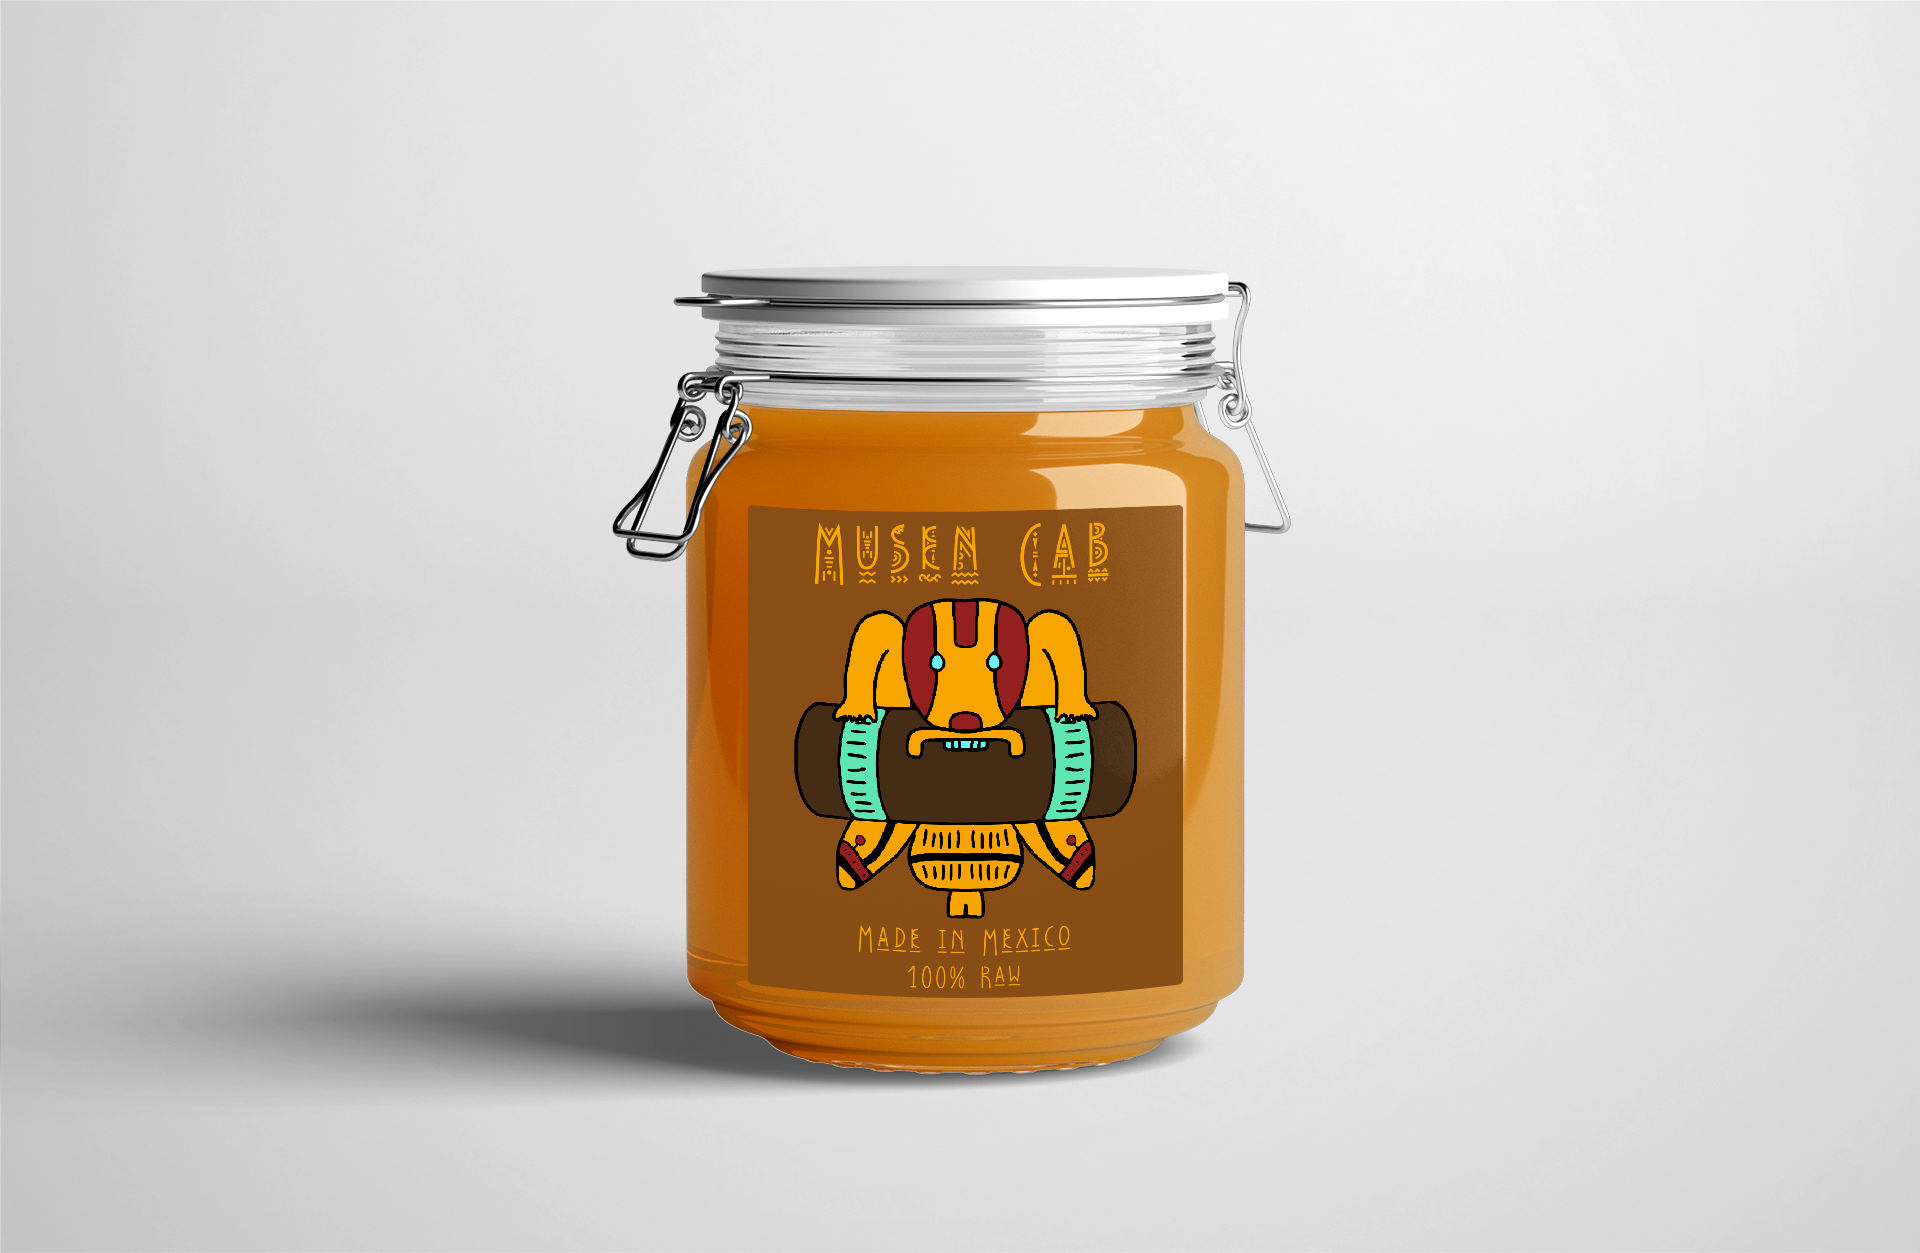
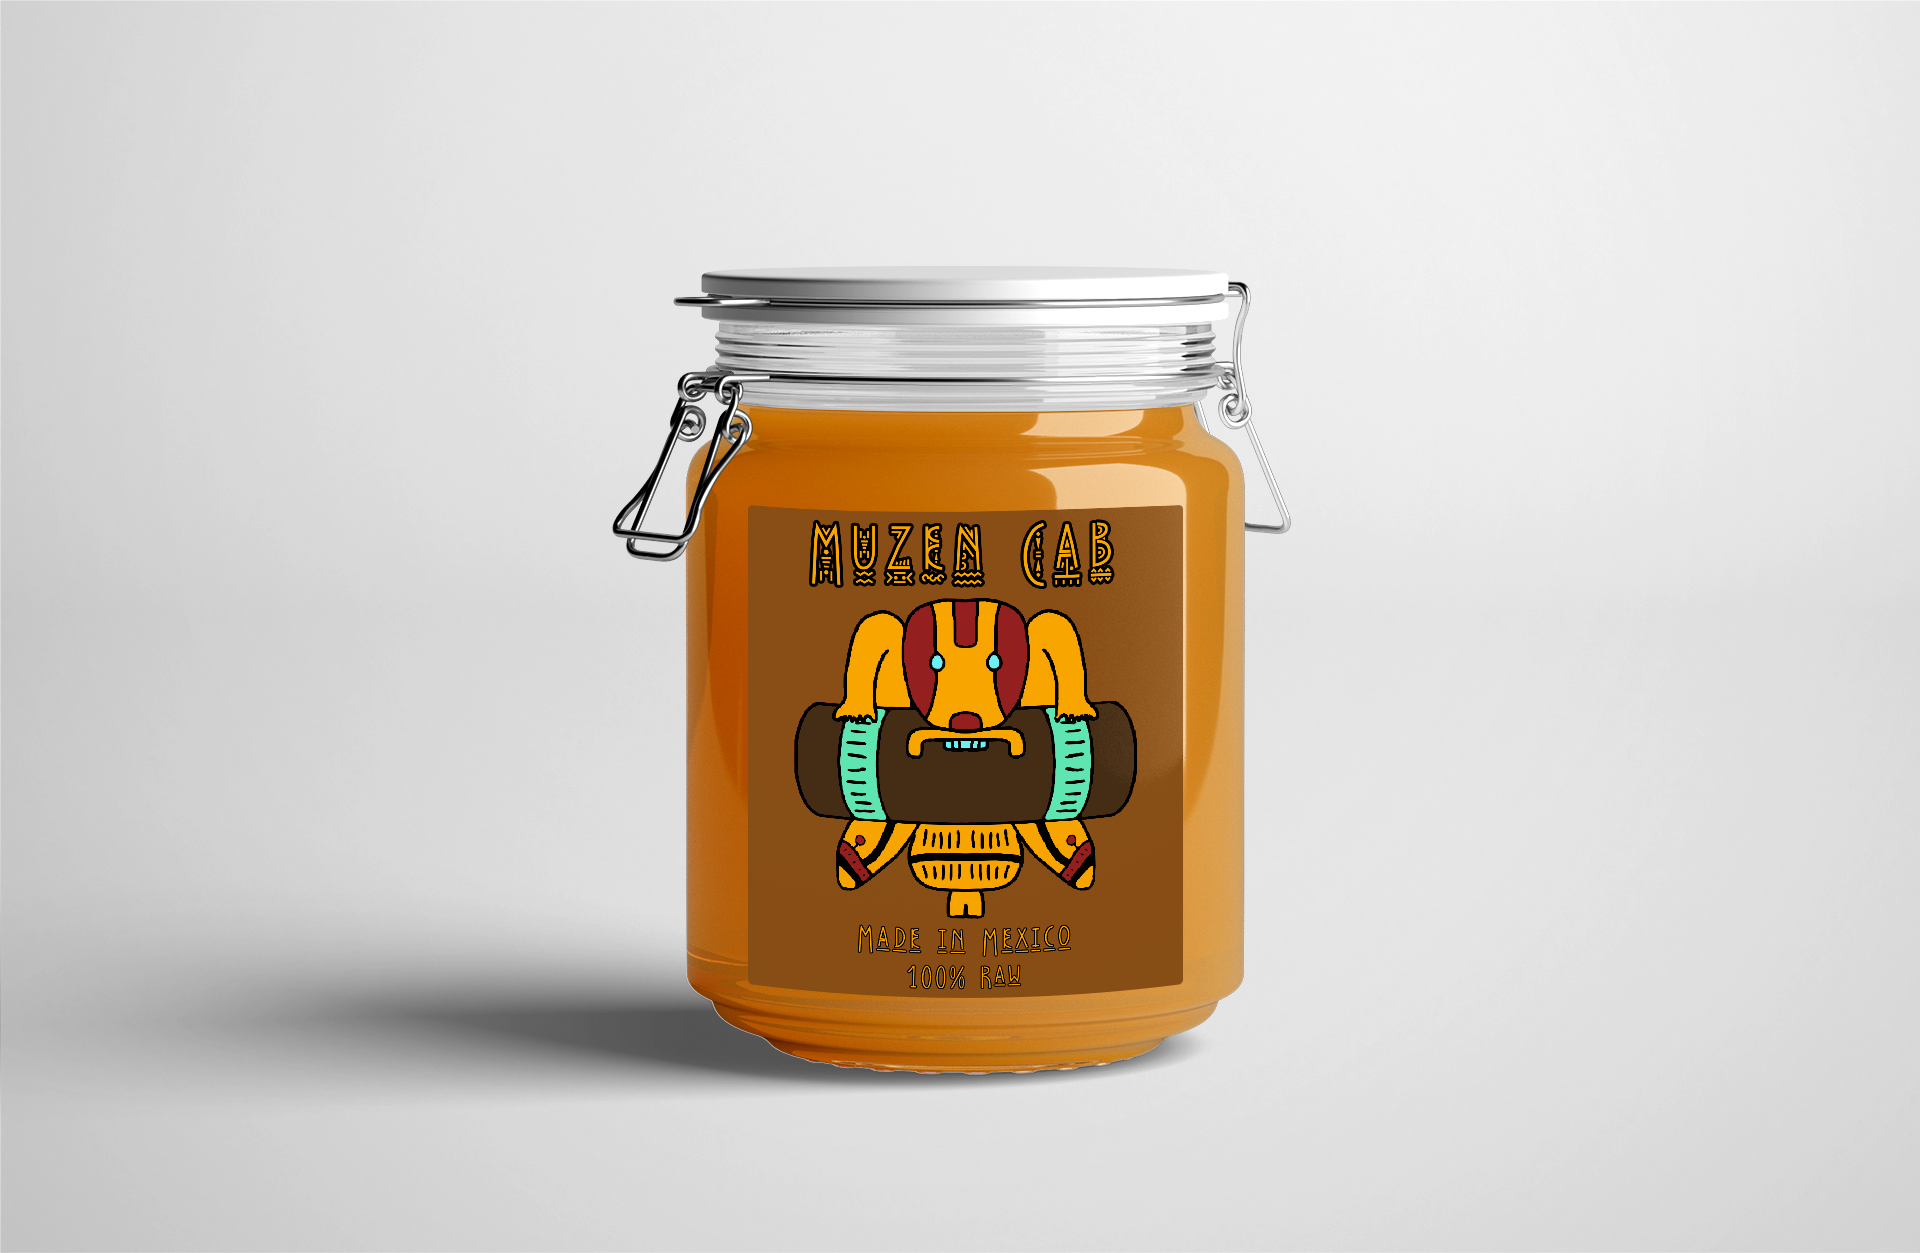
Musen to Muzen

Changed region(s): [[0.4062, 0.4046, 0.5938, 0.4669], [0.4375, 0.747, 0.5625, 0.8093]]

diff --git a/graphicdesign/index.html b/graphicdesign/index.html
@@ -128,7 +128,7 @@
 
 	<div class="talldisplay nodescription parchment1">
 		<h2>
-		Mucen Cab Honey
+		Muzen Cab Honey
 		</h2>
 		<div class="imageside">
 			<img src="MusenCabJar.png">
